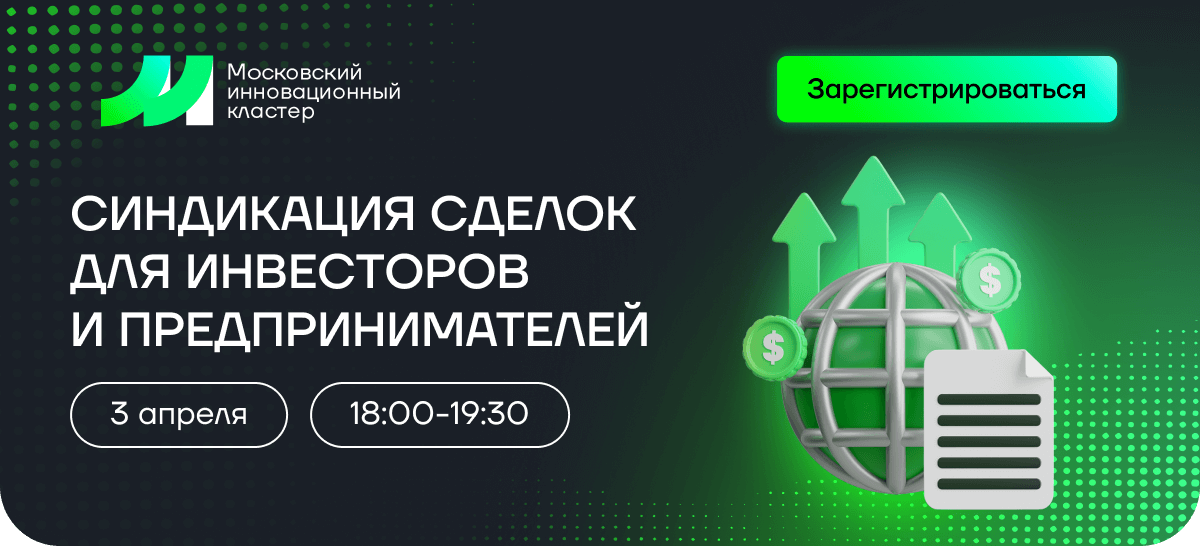
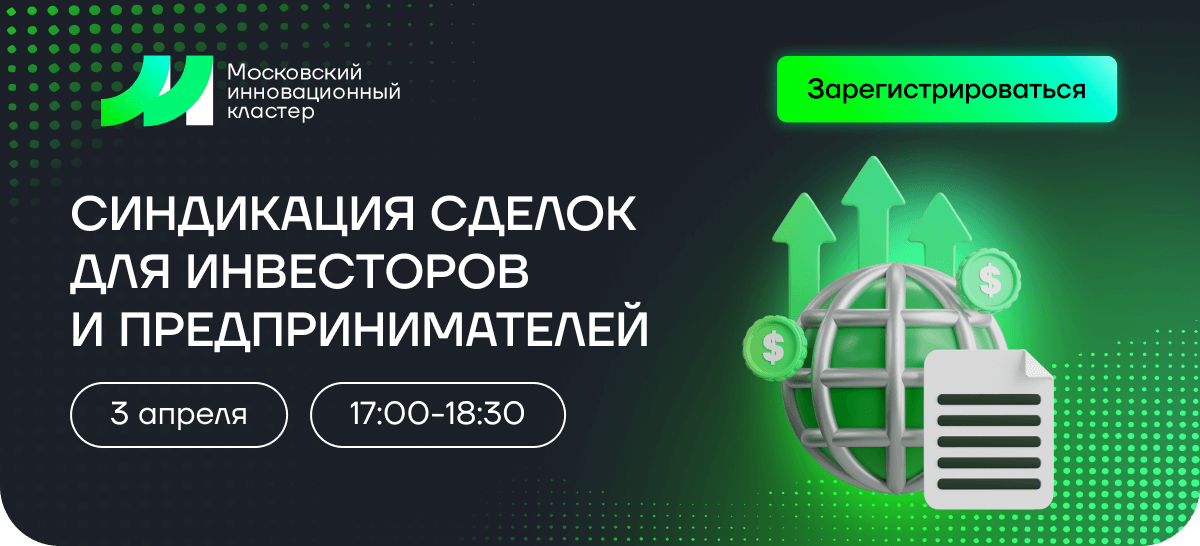
change mik-76

Changed region(s): [[0.2775, 0.7161, 0.4933, 0.8095], [0.4317, 0.685, 0.4625, 0.7161]]

diff --git a/mik-76/Синдикация сделок.html b/mik-76/Синдикация сделок.html
@@ -372,7 +372,7 @@
                                                                         <tbody>
                                                                         <tr>
                                                                             <td align="center" style="font-size:0px;word-break:break-word;height:33px">
-                                                                                <div class="green-date-time" style="display:inline-block;color:#000000;font-family:Gilroy, Helvetica, Arial, sans-serif;font-size:16px;font-weight:400;line-height:120%;margin:0;text-decoration:none;text-transform:none;mso-padding-alt:0px;border-radius:20px;">18:00-19:30</div>
+                                                                                <div class="green-date-time" style="display:inline-block;color:#000000;font-family:Gilroy, Helvetica, Arial, sans-serif;font-size:16px;font-weight:400;line-height:120%;margin:0;text-decoration:none;text-transform:none;mso-padding-alt:0px;border-radius:20px;">17:00-18:30</div>
                                                                             </td>
                                                                         </tr>
                                                                         </tbody>
